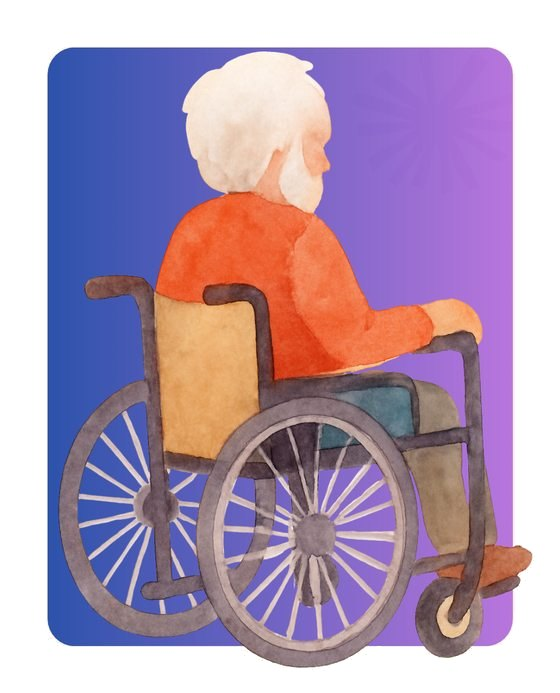
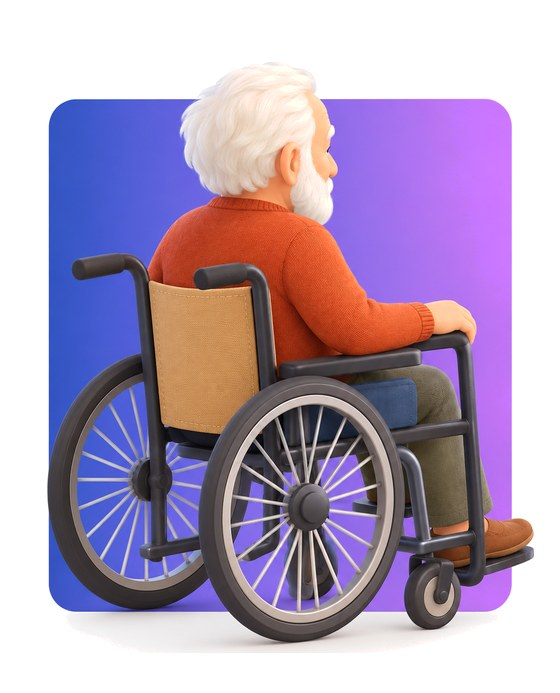
Nuova immagine per CFS 9; indirizzo delle immagini aggiornato per la cache
Claude-Session: https://claude.ai/code/session_019nCoAsNpip8ZimGigB4jne

diff --git a/index.html b/index.html
@@ -490,7 +490,7 @@ function vCategoria(id, fromQuiz){
   else path = `${c.id === 9 ? `<p class="small">La classificazione è basata sulla prognosi di malattia e non sul livello di dipendenza funzionale.</p>` : ""}<p class="lbl">Percorso</p><div>${pathC()}</div>`;
   return { bar: fromQuiz ? "Risultato" : "Scheda", act: fromQuiz ? ["Ricomincia", () => go("cfs-1")] : null,
     html: head(c.en, `CFS ${c.id} · ${c.it}`, c.group) +
-      `<div class="pic"><img src="img/cfs-${c.id}.jpg?v=2" width="560" height="${c.h}" alt="${c.en}"></div><p class="note">${c.desc}</p>` + path };
+      `<div class="pic"><img src="img/cfs-${c.id}.jpg?v=3" width="560" height="${c.h}" alt="${c.en}"></div><p class="note">${c.desc}</p>` + path };
 }
 
 /* ---------- percorsi ---------- */
